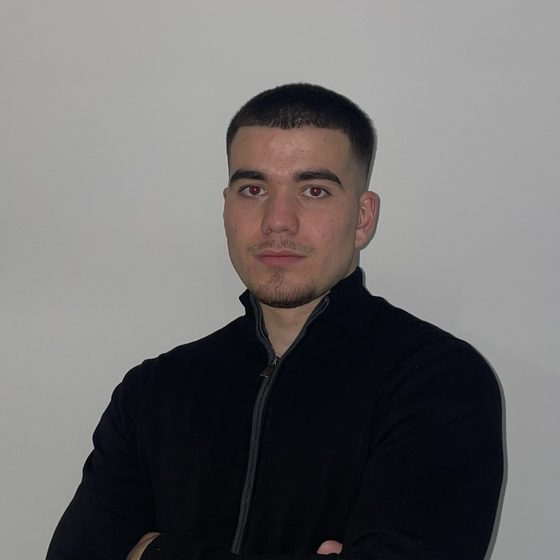
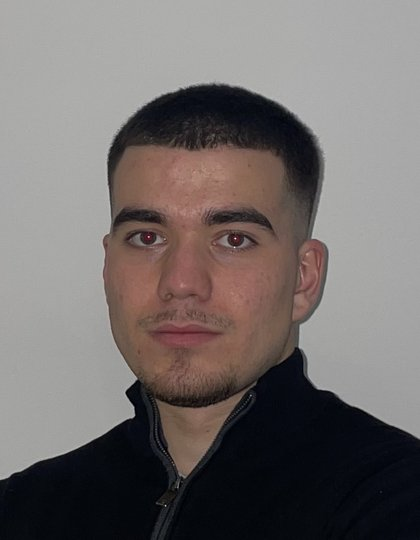
Reframe and enlarge the portrait
It was 22 x 22 mm square, sized to the header so it cost nothing, and the head
filled about a third of that frame: roughly 8 mm of face on a printed page.

Now 23.5 x 30.4 mm in the 35:45 ratio a CV photo conventionally uses, cropped
so the head fills a little over half the height. It runs about 28px past the
header, which the sheet absorbs: 1023px English and 1005px Serbian against
1036px.

Still short of the 35 x 45 mm standard. That figure is a passport convention
that reached CVs through the Europass template's fixed photo box, not a hiring
rule, and nothing reads a photo's dimensions. Matching it exactly would cost
two or three lines of content, or a floated image over the summary, which is
the one part of the page worth keeping in a single column.

diff --git a/src/pages/CvPage.tsx b/src/pages/CvPage.tsx
@@ -100,12 +100,15 @@ export default function CvPage() {
       >
         {/* Name and contact sit in the document body, never in a <header> element. */}
         {/*
-          The portrait sits beside the header rather than above it, sized to the
-          height the name, role and two contact lines already occupy. That way it
-          costs no vertical space on a sheet with about one line to spare, and the
-          text still runs top to bottom in one column for anything reading the
-          text layer. Serbian employers expect a photo; international ones often
-          ask for none, which is the one reason to take it back out.
+          The portrait sits beside the header rather than above it, so the text
+          still runs top to bottom in one column for anything reading the text
+          layer. 89x115px is 23.5 x 30.5 mm at print scale, in the 35:45 ratio a
+          CV photo conventionally uses. It is short of the 35 x 45 mm standard,
+          which is a passport convention carried into Europass rather than a
+          hiring rule; the full size would cost two or three lines of content and
+          buys nothing a reader can use. It runs about 28px past the header, which
+          the sheet has room for. Serbian employers expect a photo; international
+          ones often ask for none, which is the one reason to take it back out.
         */}
         <div className="flex items-start justify-between gap-4">
           <div className="min-w-0 flex-1">
@@ -153,7 +156,7 @@ export default function CvPage() {
           <img
             src="/veljko.jpg"
             alt={profile.name}
-            className="h-[84px] w-[84px] shrink-0 rounded-sm object-cover"
+            className="h-[115px] w-[89px] shrink-0 rounded-sm object-cover"
           />
         </div>
 
